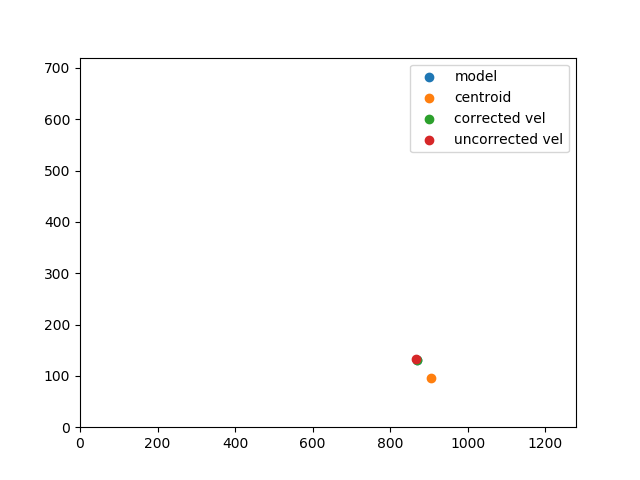
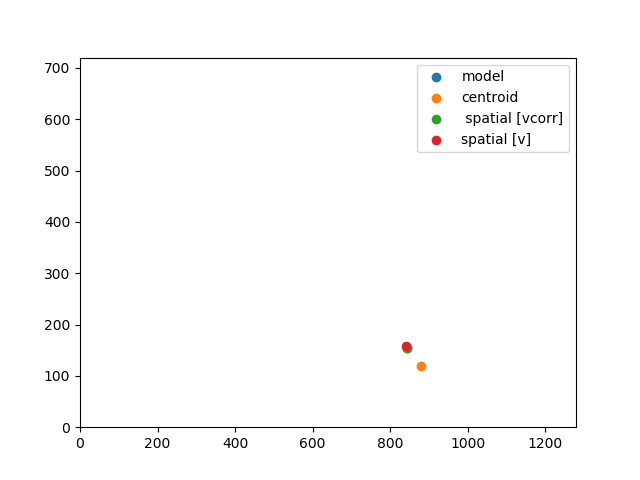
edited DecelerationCheck

Changed region(s): [[0.6562, 0.125, 0.875, 0.3125], [0.625, 0.7188, 0.6875, 0.8125]]

diff --git a/Source/DecelerationCheck.py b/Source/DecelerationCheck.py
@@ -5,7 +5,9 @@
 from __future__ import print_function, division, absolute_import
 import SimulationTools as st 
 import Parameters as par
-import matplotlib.pyplot as plt 
+import matplotlib.pyplot as plt
+
+plt.ioff() 
 		
 # Used for testing
 show_plots = False
@@ -19,7 +21,7 @@ phi = 45
 t_meteor = 0.5
 
 # Deceleration parameters of the meteor
-a = 1
+a = 1e-3
 v_start = omega
 v_finish = omega*0.9
 
@@ -47,24 +49,22 @@ centroid_rolling_coordinates_v = st.coordinateCorrection(time_rolling_coordinate
 centroid_rolling_coordinates_vcorr = st.coordinateCorrection(time_rolling_coordinates, centroid_rolling_coordinates, \
 	par.img_y, par.fps, version = 'v_corr')
 
-diff_arr = []
-diff_v_arr = []
-diff_vcorr_arr = []
+# Apply the temporal correction to centroid coordinates
+time_rolling_coordinates_corr = st.timeCorrection(centroid_rolling_coordinates, par.img_y, par.fps, t_meteor, time_mark)
 
-plt.ioff()
+# Compute the model coordinates for the temporally corrected centroid coordinates
+model_rolling_coordinates_temp = st.getModelfromTime(time_rolling_coordinates_corr, par.img_x, par.img_y, par.scale, phi, omega, dec_arr, t_meteor)
 
+
+# Plot the model coordinates, and spatially corrected coordinates with corrected and uncorrected centroid velocities
 for i in range(len(centroid_rolling_coordinates)):
+	
 	print(model_rolling_coordinates_spat[i], centroid_rolling_coordinates[i], centroid_rolling_coordinates_vcorr[i], centroid_rolling_coordinates_v[i])
-
-
-	diff_arr.append(st.centroidDifference(model_rolling_coordinates_spat[i], centroid_rolling_coordinates[i]))
-	diff_v_arr.append(st.centroidDifference(model_rolling_coordinates_spat[i], centroid_rolling_coordinates_v[i]))
-	diff_vcorr_arr.append(st.centroidDifference(model_rolling_coordinates_spat[i], centroid_rolling_coordinates_vcorr[i]))
 
 	plt.scatter(model_rolling_coordinates_spat[i][0], model_rolling_coordinates_spat[i][1], label = 'model')
 	plt.scatter(centroid_rolling_coordinates[i][0], centroid_rolling_coordinates[i][1], label = 'centroid')
-	plt.scatter(centroid_rolling_coordinates_vcorr[i][0], centroid_rolling_coordinates_vcorr[i][1], label = 'corrected vel')
-	plt.scatter(centroid_rolling_coordinates_v[i][0], centroid_rolling_coordinates_v[i][1], label = 'uncorrected vel')
+	plt.scatter(centroid_rolling_coordinates_vcorr[i][0], centroid_rolling_coordinates_vcorr[i][1], label = ' spatial [vcorr]')
+	plt.scatter(centroid_rolling_coordinates_v[i][0], centroid_rolling_coordinates_v[i][1], label = 'spatial [v]')
 
 	plt.legend(loc = 'best')
 
@@ -74,32 +74,33 @@ for i in range(len(centroid_rolling_coordinates)):
 	plt.savefig('../Graphs/DecelerationCheck/{}.png'.format(i))
 
 	plt.close()
-	
-# time_rolling_coordinates, centroid_rolling_coordinates, model_rolling_coordinates_spat = st.pointsCentroidAndModel(rolling_shutter, t_meteor, phi, \
-	# omega, par.img_x, par.img_y, par.scale, par.fps, par.sigma_x, par.sigma_y, noise, par.offset, dec_arr, show_plots, centroid_rolling_coordinates_vcorr)
 
+# Compute the difference between the true (global shutter) centroid positions and positions created by applying corrections to centroids
 
+diff_arr = []
+diff_v_arr = []
+diff_vcorr_arr = []
+diff_temp_arr = []
 
-# Correct the rolling shutter temporal coordinates
-print('Correcting temporal coordinates...')
-time_rolling_coordinates_corr = st.timeCorrection(centroid_rolling_coordinates, par.img_y, par.fps, t_meteor, time_mark)
+for i in range(len(centroid_rolling_coordinates)):
 
-# Calculate the model points' coordinates
-print('Getting model coordinates...')
-model_rolling_coordinates_temp = []
+	diff_arr.append(st.centroidDifference(model_rolling_coordinates_spat[i], centroid_rolling_coordinates[i]))
+	diff_v_arr.append(st.centroidDifference(model_rolling_coordinates_spat[i], centroid_rolling_coordinates_v[i]))
+	diff_vcorr_arr.append(st.centroidDifference(model_rolling_coordinates_spat[i], centroid_rolling_coordinates_vcorr[i]))
+	diff_temp_arr.append(st.centroidDifference(model_rolling_coordinates_spat[i], model_rolling_coordinates_temp[i]))
 
-for i in range(len(time_rolling_coordinates)):
-
-	x_model, y_model = st.drawPoints(time_rolling_coordinates_corr[i], par.img_x/2, par.img_y/2, par.scale, phi, omega, dec_arr, t_meteor)
-	model_rolling_coordinates_temp.append((x_model, y_model))
-
+# Compute the velocity arrays of different centroid coordinate arrays
 vel_v = st.getVelocity(time_rolling_coordinates, centroid_rolling_coordinates_v)
 vel_vcorr = st.getVelocity(time_rolling_coordinates, centroid_rolling_coordinates_vcorr)
+vel_temp = st.getVelocity(time_rolling_coordinates_corr, model_rolling_coordinates_temp)
 vel_model = st.getVelocity(time_rolling_coordinates, model_rolling_coordinates_spat)
 
-plt.plot(time_rolling_coordinates, vel_v, label = 'uncorrected velocity')
-plt.plot(time_rolling_coordinates, vel_vcorr, label = 'corrected velocity')
+
+# Plot the velocities over time
 plt.plot(time_rolling_coordinates, vel_model, label = 'model')
+plt.plot(time_rolling_coordinates_corr, vel_temp, label = 'temporal')
+plt.plot(time_rolling_coordinates, vel_v, label = 'spatial [v]')
+plt.plot(time_rolling_coordinates, vel_vcorr, label = 'spatial [vcorr]')
 
 plt.xlabel('Time [s]')
 plt.ylabel('Velocity [px/s]')
@@ -110,12 +111,11 @@ plt.savefig('../Graphs/DecelerationCheck/vel_time.png')
 
 plt.close()
 
-# diff_v = [st.centroidDifference(x, y) for x, y in zip(model_rolling_coordinates_spat, centroid_rolling_coordinates_v)]
-# diff_vcorr = [st.centroidDifference(x, y) for x, y in zip(model_rolling_coordinates_spat, centroid_rolling_coordinates_vcorr)]
-
-plt.plot(time_rolling_coordinates, diff_arr, label = 'centroid')
-plt.plot(time_rolling_coordinates, diff_v_arr, label = 'uncorrected velocity')
-plt.plot(time_rolling_coordinates, diff_vcorr_arr, label = 'corrected velocity')
+# Plot the centroid offsets over time
+plt.plot(time_rolling_coordinates, diff_arr, label = 'uncorrected')
+plt.plot(time_rolling_coordinates_corr, diff_temp_arr, label = 'temporal')
+plt.plot(time_rolling_coordinates, diff_v_arr, label = 'spatial [v]')
+plt.plot(time_rolling_coordinates, diff_vcorr_arr, label = 'spatial [vcorr]')
 
 plt.xlabel('Time [s]')
 plt.ylabel('Centroid offset [px]')
@@ -125,16 +125,3 @@ plt.legend(loc = 'best')
 plt.savefig('../Graphs/DecelerationCheck/offset_time.png')
 
 plt.close()
-
-
-# print('Calculating average difference...')
-# diff_avg_spat = st.centroidAverageDifference(centroid_rolling_coordinates_corr, model_rolling_coordinates_spat)
-
-# print('Average difference (spatial correction): {:.2f} [px]'.format(diff_avg_spat))
-
-# print('Calculating average difference...')
-# diff_avg_temp = st.centroidAverageDifference(model_rolling_coordinates_temp, centroid_rolling_coordinates)
-
-# print('Average difference (temporal correction): {:.2f} [px]'.format(diff_avg_temp))
-
-
